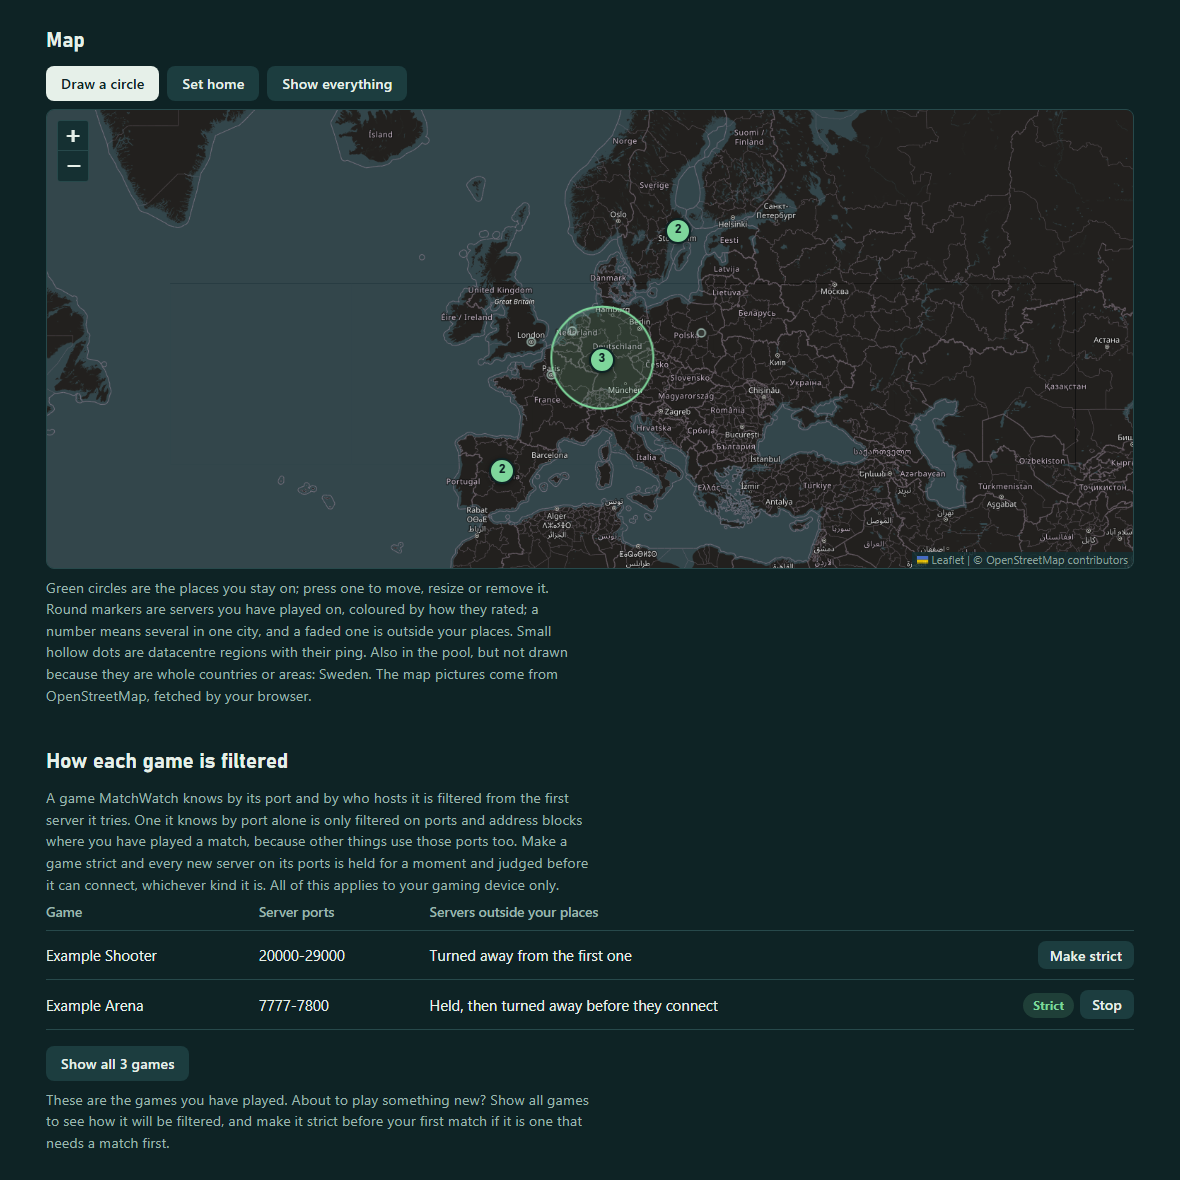
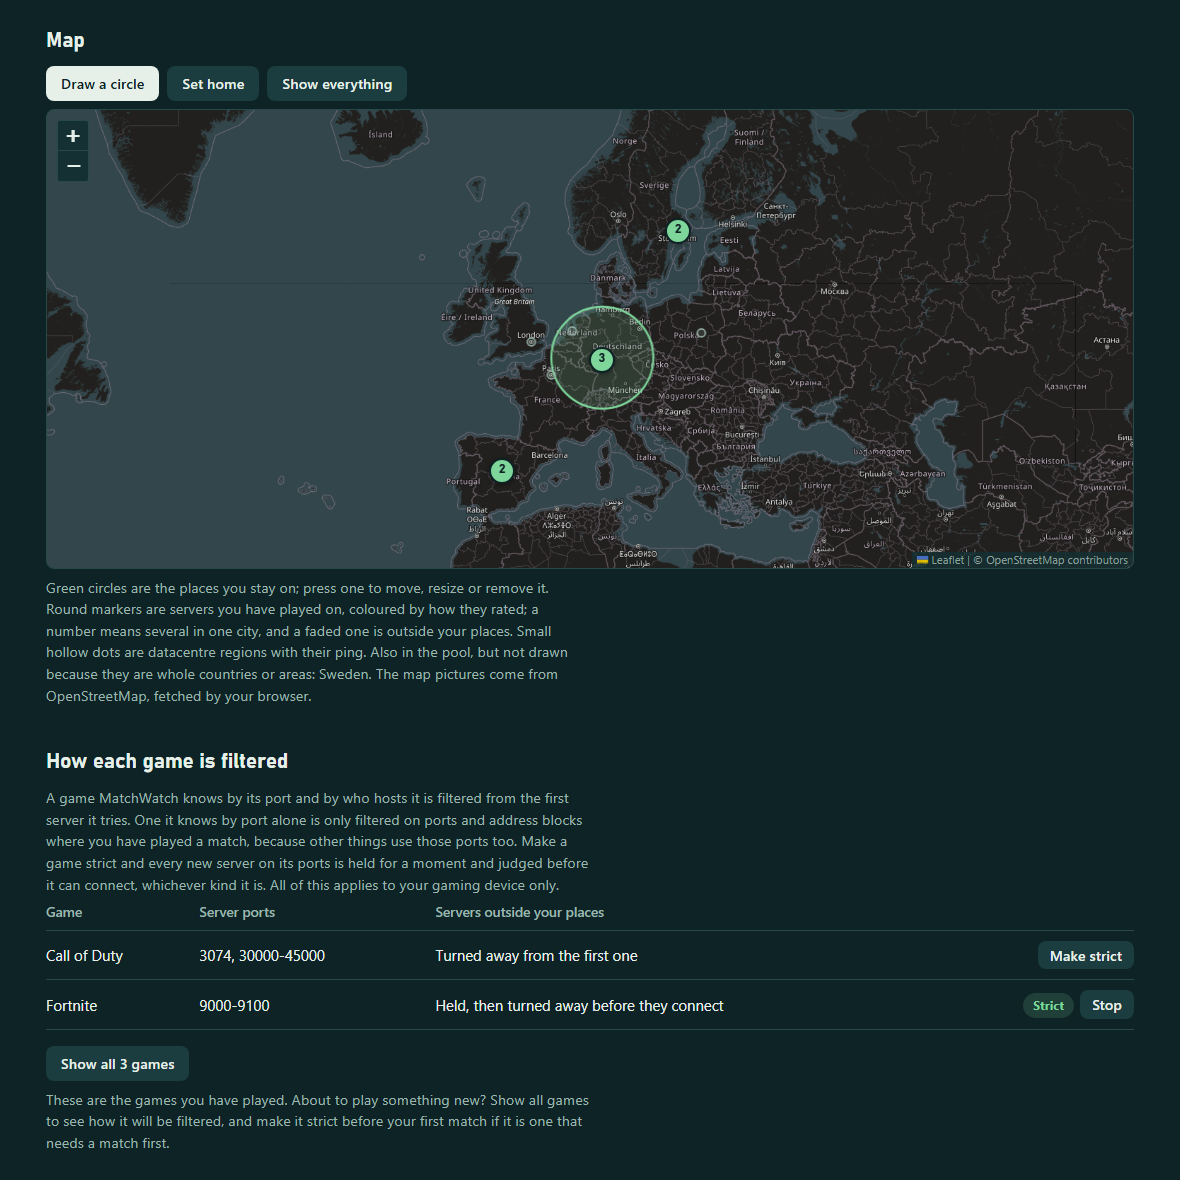
0.28.2: a match played outside your places says so, and why

Changed region(s): [[0.3661, 0.7627, 0.6102, 0.8542], [0.1831, 0.7627, 0.3051, 0.8542], [0.0305, 0.7932, 0.122, 0.8542]]

diff --git a/luci-app-matchwatch/htdocs/luci-static/resources/matchwatch/dashboard.js b/luci-app-matchwatch/htdocs/luci-static/resources/matchwatch/dashboard.js
@@ -26,7 +26,7 @@ var page = "", pageArg = "", armed = 0, view = shadow.getElementById("view");
 // another, MatchWatch has been updated under this page: the browser's stored copies of the dashboard
 // files are fetched afresh, which replaces them, and the page reloads itself. Without this an updated
 // router kept showing the old dashboard until the browser happened to let go of it.
-var BUILT = "0.28.1", reloading = false;
+var BUILT = "0.28.2", reloading = false;
 function freshReload() {
 	var urls = {}, go = function () { location.reload(); };
 	try { performance.getEntriesByType("resource").forEach(function (e) { if (/\/matchwatch\/[^?]*\.(js|css)(\?|$)/.test(e.name)) urls[e.name] = 1; }); } catch (e) {}
@@ -670,6 +670,14 @@ function pageMatch(id) {
 			h("div", null, h("h1", where), h("p", { cls: "sub", text: (sum && sum.game ? sum.game + ". " : "") + (m.org && m.org !== "-" ? m.org + ". " : "") + when(m.start) + ". " + mins(m.dur) + " played, " + mins(m.analysed) + " analysed. Server " + m.ip + ":" + m.port + "." })),
 			h("div", { cls: "score" }, h("b", { cls: sc }, String(m.overall), h("small", "/100")), h("span", { cls: sc, text: grade(m.overall) }))));
 		view.appendChild(h("p", { cls: "lede", text: m.verdict }));
+		if (m.outside) {
+			// this match was played on a server outside the places being stayed on: say so, and why it was not turned away
+			var og = m.game || "this game", why = m.outside === "allowed" ? "You added this server to the pool yourself, so it is always let through."
+				: m.outside === "port" ? og + " is known by its port alone, and no match had been played on this port or address block before, so MatchWatch could not be sure it was the game. Its address block is turned away from now on. Make " + og + " strict, on the Servers page, to stop the first one too."
+				: m.outside === "host" ? "It connected in the moment before it could be looked up, or your places changed while you were playing. Its address block is turned away from now on. Make " + og + " strict, on the Servers page, to hold new servers until they have been placed."
+				: "The game on this port has no name yet, and MatchWatch never turns an unnamed game away. Name it under Tools, Games.";
+			view.appendChild(h("div", { cls: "banner far" }, h("p", null, h("b", "Played outside your places. "), "This server is in " + (place(m) || "a place") + ", outside the places you stay on. " + why)));
+		}
 		view.appendChild(chain(m));
 		if (full && m.tl_d && m.tl_d.length) {
 			var cv = h("canvas", { role: "img", "aria-label": "Ping and update timing across the whole match" });

diff --git a/test/mockshots.py b/test/mockshots.py
@@ -53,7 +53,7 @@ def build(site):
         s = {"server": 100, "route": 100, "line": 100, "pc": 100}
         if code in s: s[code] = max(2, overall - 20)
         p = round(ping + random.uniform(-0.4, 0.4), 1)
-        m = {"game": "Example Arena" if cc == "SE" else "Example Shooter", "start": start, "dur": dur, "analysed": dur - 6, "device": "192.168.1.50", "ip": ip, "port": 30120, "cc": cc, "city": city, "org": org, "asn": "AS64500",
+        m = {"game": "Fortnite" if cc == "SE" else "Call of Duty", "start": start, "dur": dur, "analysed": dur - 6, "device": "192.168.1.50", "ip": ip, "port": 30120, "cc": cc, "city": city, "org": org, "asn": "AS64500",
              "tick": 20.1, "jit": 2.68 if code == "server" else round(random.uniform(0.2, 0.6), 2), "late": 2.78 if code == "server" else 0.03, "lost": 2.4 if code == "server" else round(random.uniform(0, 0.1), 2),
              "clump": 3.1 if code == "route" else 0.0, "freeze": 3 if code == "server" else 0, "rough": 51.0 if code == "server" else (18.0 if bad else 0.0), "uprate": 95.2, "upjit": 0.2,
              "hitch": 4 if code == "pc" else 0, "farkind": "server", "ping": p, "pingjit": 3.9 if code == "route" else 0.3, "pingloss": 1.5 if code == "route" else 0.0, "nearping": 3.7, "nearjit": 0.3, "nearloss": 0,
@@ -75,6 +75,7 @@ def build(site):
             for x in hs[3:]: x["jit"], x["loss"] = round(random.uniform(5.5, 8.0), 2), random.choice([6, 7, 9])
             det["hopnote"] = "Trouble on the way starts at stop %d (%s): jitter %.1f ms, %d%% of pings lost, and it is still there at every stop after it. The 3 stops before it were steady." % (hs[3]["n"], hs[3]["ip"], hs[3]["jit"], hs[3]["loss"])
         det["hopstats"] = hs
+        if cc == "ES": det["outside"] = "host"   # Madrid is outside the invented pool
         det["qm"] = {"scheme": "diffserv3", "up": {"pkts": dur * 95, "drops": 0, "marks": 0, "peak": 0.3, "rpkts": dur * 410, "rdrops": 37 if code == "line" else 0, "rmarks": 212 if code == "line" else 0, "rpeak": 18.4 if code == "line" else 1.1},
                      "down": {"pkts": dur * 20, "drops": 0, "marks": 0, "peak": 0.4, "rpkts": dur * 900, "rdrops": 0, "rmarks": 0, "rpeak": 2.2}}
         json.dump(det, open(f"{data}/matches/{start}.json", "w"))
@@ -99,17 +100,17 @@ def build(site):
     blocks = [{"ip": DCS["mad"][5][0].rsplit(".", 1)[0] + ".0/24", "days": None, "reason": "stay"}, {"ip": "203.0.113.77", "days": 12, "reason": "manual"}]
     for s in servers: s["blocked"] = s["ip"] == "203.0.113.77"; s["in"] = s["cc"] in ("DE", "SE"); s["lat"], s["lon"] = {"DE": (50.11, 8.68), "SE": (59.33, 18.07), "ES": (40.42, -3.70)}[s["cc"]]
     out = {"history": hist, "servers": servers, "datacentres": dlist, "regions": rj, "blocklist": blocks,
-           "info": {"version": "0.28.1", "device": "192.168.1.50", "stay": "Germany + Sweden", "autoblock": False, "notify": True, "pc_score": True, "geo": True, "block_days": 14, "stays": ["Near Frankfurt 450 km", "Sweden"], "web": False, "qosmate": True, "away": 412, "allowed": ["192.0.2.150"], "pool": [{"n": 1, "name": "Near Frankfurt 450 km", "lat": 50.11, "lon": 8.68, "km": 450, "cc": ""}, {"n": 2, "name": "Sweden", "lat": None, "lon": None, "km": 0, "cc": "SE"}]}}
+           "info": {"version": "0.28.2", "device": "192.168.1.50", "stay": "Germany + Sweden", "autoblock": False, "notify": True, "pc_score": True, "geo": True, "block_days": 14, "stays": ["Near Frankfurt 450 km", "Sweden"], "web": False, "qosmate": True, "away": 412, "allowed": ["192.0.2.150"], "pool": [{"n": 1, "name": "Near Frankfurt 450 km", "lat": 50.11, "lon": 8.68, "km": 450, "cc": ""}, {"n": 2, "name": "Sweden", "lat": None, "lon": None, "km": 0, "cc": "SE"}]}}
     out["favourites"] = [servers[-1]["ip"], servers[-2]["ip"], servers[-4]["ip"]]
-    out["mygames"] = [{"name": "Example Arena", "ports": "7777-7800", "kind": "", "hosts": ""}, {"name": "Example Shooter", "ports": "20000-29000", "kind": "", "hosts": "examplehost,as64500"}, {"name": "Not a game", "ports": "19306", "kind": "voice", "hosts": ""}]
+    out["mygames"] = [{"name": "Fortnite", "ports": "9000-9100", "kind": "", "hosts": ""}, {"name": "Call of Duty", "ports": "3074,30000-45000", "kind": "", "hosts": "vultr,as20473"}, {"name": "Not a game", "ports": "19306", "kind": "voice", "hosts": ""}]
     out["gameplaces"] = [
-        {"game": "Example Shooter", "city": "Frankfurt", "cc": "DE", "org": "Example Hosting Frankfurt", "networks": 3, "nets": ["203.0.113.0/24"], "matches": 7, "rating": 75, "mine": True, "in": True},
-        {"game": "Example Shooter", "city": "Madrid", "cc": "ES", "org": "Example Hosting Madrid", "networks": 2, "nets": ["192.0.2.0/24"], "matches": 2, "rating": 100, "mine": True, "in": False},
-        {"game": "Example Arena", "city": "Stockholm", "cc": "SE", "org": "Example Hosting Stockholm", "networks": 2, "nets": ["198.51.100.0/24"], "matches": 3, "rating": 100, "mine": True, "in": True},
-        {"game": "Example Shooter", "city": "Paris", "cc": "FR", "org": "Example Hosting Paris", "networks": 1, "nets": ["198.51.100.0/24"], "matches": 0, "rating": None, "mine": True, "in": False},
-        {"game": "Example Shooter", "city": "Tokyo", "cc": "JP", "org": "Example Hosting Tokyo", "networks": 6, "nets": ["203.0.113.0/24"], "matches": 41, "rating": 88, "mine": False, "in": False},
-        {"game": "Example Arena", "city": "Sydney", "cc": "AU", "org": "Example Hosting Sydney", "networks": 4, "nets": ["192.0.2.0/24"], "matches": 17, "rating": 92, "mine": False, "in": False}]
-    out["hold"] = [{"name": "Example Shooter", "on": False, "ok": True, "ports": "20000-29000", "host": True}, {"name": "Example Arena", "on": True, "ok": True, "ports": "7777-7800", "host": False}, {"name": "Example Blocks", "on": False, "ok": False, "ports": "49152-65535", "host": True}]
+        {"game": "Call of Duty", "city": "Frankfurt", "cc": "DE", "org": "Example Hosting Frankfurt", "networks": 3, "nets": ["203.0.113.0/24"], "matches": 7, "rating": 75, "mine": True, "in": True},
+        {"game": "Call of Duty", "city": "Madrid", "cc": "ES", "org": "Example Hosting Madrid", "networks": 2, "nets": ["192.0.2.0/24"], "matches": 2, "rating": 100, "mine": True, "in": False},
+        {"game": "Fortnite", "city": "Stockholm", "cc": "SE", "org": "Example Hosting Stockholm", "networks": 2, "nets": ["198.51.100.0/24"], "matches": 3, "rating": 100, "mine": True, "in": True},
+        {"game": "Call of Duty", "city": "Paris", "cc": "FR", "org": "Example Hosting Paris", "networks": 1, "nets": ["198.51.100.0/24"], "matches": 0, "rating": None, "mine": True, "in": False},
+        {"game": "Call of Duty", "city": "Tokyo", "cc": "JP", "org": "Example Hosting Tokyo", "networks": 6, "nets": ["203.0.113.0/24"], "matches": 41, "rating": 88, "mine": False, "in": False},
+        {"game": "Fortnite", "city": "Sydney", "cc": "AU", "org": "Example Hosting Sydney", "networks": 4, "nets": ["192.0.2.0/24"], "matches": 17, "rating": 92, "mine": False, "in": False}]
+    out["hold"] = [{"name": "Call of Duty", "on": False, "ok": True, "ports": "3074 30000-45000", "host": True}, {"name": "Fortnite", "on": True, "ok": True, "ports": "9000-9100", "host": False}, {"name": "Roblox", "on": False, "ok": False, "ports": "49152-65535", "host": True}]
     out["coverage"] = {"hosts": "Vultr (Call of Duty)", "known": 441, "refusing": True, "refused": 412, "places": [{"name": "Germany", "ranges": 26}, {"name": "Sweden", "ranges": 2}], "suggest": []}
     out["shared"] = {"undo": True, "have": {"games": 3, "regions": 0, "places": 2, "ratings": 6},
                      "ratings": [{"p": "203.0.113.0/24", "n": 14, "avg": 38, "city": "Madrid", "cc": "ES", "org": "Example Hosting Madrid", "blocked": True},
@@ -140,9 +141,9 @@ matchwatch-share 1
 
 [games]
 # name|server ports|kind (empty = a game, voice = voice chat)|words in the name of the company hosting the servers
-Example Arena|7777-7800||
-Example Shooter|20000-29000||examplehost,as64500
-Example Racing|8211||
+Fortnite|9000-9100||
+Call of Duty|3074,30000-45000||vultr,as20473
+Palworld|8211||
 
 [places]
 # name|latitude|longitude|reach in km|country codes
@@ -159,11 +160,11 @@ Stockholm, SE|59.33|18.07|150|-
 
 [favourites]
 # server|game|city|country code|host|rating out of 100|matches|latitude|longitude
-198.51.100.12|Example Arena|Stockholm|SE|Example Hosting Stockholm|100|2|59.33|18.07|1
-198.51.100.90|Example Arena|Stockholm|SE|Example Hosting Stockholm|100|1|59.33|18.07|1
-192.0.2.150|Example Shooter|Madrid|ES|Example Hosting Madrid|100|1|40.42|-3.70|1
-203.0.113.21|Example Shooter|Frankfurt|DE|Example Hosting Frankfurt|100|3|50.11|8.68|0
-203.0.113.77|Example Shooter|Frankfurt|DE|Example Hosting Frankfurt|12|2|50.11|8.68|0
+198.51.100.12|Fortnite|Stockholm|SE|Example Hosting Stockholm|100|2|59.33|18.07|1
+198.51.100.90|Fortnite|Stockholm|SE|Example Hosting Stockholm|100|1|59.33|18.07|1
+192.0.2.150|Call of Duty|Madrid|ES|Example Hosting Madrid|100|1|40.42|-3.70|1
+203.0.113.21|Call of Duty|Frankfurt|DE|Example Hosting Frankfurt|100|3|50.11|8.68|0
+203.0.113.77|Call of Duty|Frankfurt|DE|Example Hosting Frankfurt|12|2|50.11|8.68|0
 
 [settings]
 # the thresholds this copy of MatchWatch runs with
@@ -175,8 +176,8 @@ autoblock_matches=2
 lobby_margin_ms=4
 stay_km=150
 block_days=14`;
-		if (p.action === "sharecheck") out = `games: 2 game label(s): Example Game, Another Game. They go below the names you have given yourself, which always win.
-favourites: 3 favourite server(s) for Example Arena (2), Example Shooter (1). They join your favourites under those games: never blocked automatically, and the lobby alert tells you when you land on one.
+		if (p.action === "sharecheck") out = `games: 2 game label(s): Fortnite, Palworld. They go below the names you have given yourself, which always win.
+favourites: 3 favourite server(s) for Fortnite (2), Call of Duty (1). They join your favourites under those games: never blocked automatically, and the lobby alert tells you when you land on one.
 favplaces: Stay near those servers: adds Stockholm, SE, Madrid, ES to the places you stay on and turns staying on, so game servers elsewhere are blocked.
 places: 1 place(s) to stay on: UK and Ireland. Importing these turns staying on, so game servers elsewhere are blocked.
 ratings: 3 server rating(s) from someone else. They are shown to you and mentioned by the lobby alert, and never block anything by themselves.
@@ -185,12 +186,14 @@ ratings: 3 server rating(s) from someone else. They are shown to you and mention
 		if (p.action === "shareimport") out = `Added 2 game label(s). Ones for ports you had already named were left out.
 Took in 3 server rating(s). They are listed on the Tools page.`;
 		if (p.action === "linetest" || p.action === "trace") out = "1";
-		if (p.action === "updatecheck") out = "Version 0.24.0 is available. You have 0.28.1.";
+		if (p.action === "updatecheck") out = "Version 0.24.0 is available. You have 0.28.2.";
 		return Promise.resolve({ ok: true, out: out });
 	} });
 // for the Tools screenshots: press what a visitor would, so each picture shows a result
 setTimeout(function () { Array.prototype.forEach.call(document.getElementById("mw").shadowRoot.querySelectorAll("button"), function (x) { if (["Choose what to share", "Test my line", "Trace the route now", "Check for an update"].indexOf(x.textContent) >= 0) x.click(); }); }, 3000);
 </script></body></html>""" % (RES, RES))
+    global OUTSIDE
+    OUTSIDE = [m for m in hist if m["cc"] == "ES"][0]["start"]
     return [m for m in hist if m["code"] == "server"][0]["start"]
 
 
@@ -223,6 +226,9 @@ if __name__ == "__main__":
     os.makedirs(ROOT + "/docs", exist_ok=True)
     for route, name, h in (("#/", "live", 1400), (f"#/match/{bad}", "match-report", 2600), ("#/matches", "matches", 2600), ("#/servers", "servers-pool", 5200), ("#/tools", "tools", 2600), ("#/tools/share", "share", 4200), ("#/tools/data", "update", 2200)):
         shoot(browser, route, f"{ROOT}/docs/{name}.png", h)
+    # a match that was played outside the pool: just the top of its report, where that is said
+    shoot(browser, f"#/match/{OUTSIDE}", f"{ROOT}/docs/outside.png", 2600)
+    Image.open(f"{ROOT}/docs/outside.png").crop((0, 0, 1180, 420)).save(f"{ROOT}/docs/outside.png", optimize=True)
     # the map and the filter table on their own, large enough to read in the README (they sit a long way down the Servers page)
     Image.open(f"{ROOT}/docs/servers-pool.png").crop((0, 570, 1180, 1750)).save(f"{ROOT}/docs/map.png", optimize=True)
     assert os.path.getsize(f"{ROOT}/docs/match-report.png") > 60000, "the match report picture is nearly empty: the match was not found"

diff --git a/CLAUDE.md b/CLAUDE.md
@@ -1,6 +1,6 @@
 # matchwatch: notes for whoever works on this next
 
-matchwatch runs on an OpenWrt router and judges each online match: the game server, the route to it, the player's own line and their PC. It works from packet timing only and never alters game traffic. Version 0.28.1.
+matchwatch runs on an OpenWrt router and judges each online match: the game server, the route to it, the player's own line and their PC. It works from packet timing only and never alters game traffic. Version 0.28.2.
 
 ## Layout
 
@@ -76,7 +76,7 @@ Hop-by-hop blame (0.27.0): `hop_loop` (started by `_probe_start` once the trace 
 - Voice chat must never be cut off. Stay mode, the lobby alert and auto-block act only on servers labelled as a game in `games.list` or `games.local` (`kindof`/`isgame` in the engine, `which_label`/`is_game_port` in reports). Voice streams (`kind` = `voice`) are not tracked at all: no session, no probes, no alerts. Unlabelled ports are tracked and rated but never blocked. `games.local` is read first, so naming a port or range makes it a game. The engine re-reads both files every 20 ticks.
 - Labels are `name|ports|kind|hosts`, first match wins. `hosts` are words looked for in the server's isp, org and AS name; a label with hosts only matches once the lookup is in `geo.cache` (the engine asks with `matchwatch _geo <ip>`), and until then the stream falls through to later labels. This exists because ports overlap badly: Roblox and Discord voice share 50000-65535, Valorant sits inside Rocket League's range, Apex inside Call of Duty's. Reports only have org and the AS number, so give host-checked labels the AS number too (`roblox,as22697`). Put narrow and host-checked lines above wide ones. Never add a wide range without a host check: it turns every unknown stream in that range into a "game" that stay mode may block.
 - Publishers' port lists mostly do not say whether a port is the server's or the player's, and many are missing. `games.list` marks lines without a publisher source as unconfirmed. Do not add a game from memory; find a source.
-- The lobby alert needs a game-labelled port and one of two more things: the matching label is host-checked and the server's host matches (`hostgame`, since 0.28.0, at the owner's request so filtering works from a game's first server as Geomate's does), or the port or /24 carried an earlier match (`KPORT`, `K24`). Never drop the second test for labels known by port alone: game port ranges are wide (30000-45000), and calls and peer-to-peer traffic use ports inside them, so with stay mode on that would block non-game servers. A patch once dropped it for everything. While a host lookup is pending the check is put off (`hostpending`, up to 400 packets) rather than decided on a later port-only label. A port-only server left alone this way is passed to `matchwatch _unseen` (0.28.1), which blocks nothing: if the server is outside the pool it writes a `lobby.json` with `strictname`, so the Live page says it was let through and offers to make that game strict.
+- The lobby alert needs a game-labelled port and one of two more things: the matching label is host-checked and the server's host matches (`hostgame`, since 0.28.0, at the owner's request so filtering works from a game's first server as Geomate's does), or the port or /24 carried an earlier match (`KPORT`, `K24`). Never drop the second test for labels known by port alone: game port ranges are wide (30000-45000), and calls and peer-to-peer traffic use ports inside them, so with stay mode on that would block non-game servers. A patch once dropped it for everything. While a host lookup is pending the check is put off (`hostpending`, up to 400 packets) rather than decided on a later port-only label. A port-only server left alone this way is passed to `matchwatch _unseen` (0.28.1), which blocks nothing: if the server is outside the pool it writes a `lobby.json` with `strictname`, so the Live page says it was let through and offers to make that game strict. A match played on a server outside the pool carries `outside` in its detail (`allowed`, `port`, `host` or `unnamed`, worked out in `_probe_stop`), and the report opens with why it was not turned away (0.28.2). The pictures use real game titles with the ports from `games.list`, at the owner's request; hosts and addresses stay invented.
 - Share files come from strangers. Import must never be able to block a server or widen what counts as a game without a check: ratings from others are display only (`ratings.shared` is never read by auto-block or stay mode), a game label over 2000 ports wide needs hosts, host words need three characters, settings are a fixed list of numeric keys with ranges (never `autoblock`, `ntfy_url`, `device_ip`, `only_filter`), and region hosts must be names, not addresses. Export must never include the device, LAN or ISP addresses, or match times.
 - `matchwatch game name <port or lo-hi> <name> [hosts] [voice]` and `game remove` are the only writers of hand-made labels (actions `gamename`, where `region` carries the host words and `days` = 1 means not a game, and `gamedel`). They refuse a range over 2000 ports with no host words, the same rule as imports.
 - A name given by hand goes at the top of `games.local` so it beats an imported label covering the same port; imported labels are appended.

diff --git a/README.md b/README.md
@@ -1,6 +1,6 @@
 # MatchWatch
 
-**Judges every online match from your OpenWrt router — v0.28.1 (pre-release)**
+**Judges every online match from your OpenWrt router — v0.28.2 (pre-release)**
 
 > **OpenWrt only.** MatchWatch runs on a router with [OpenWrt](https://openwrt.org/) firmware and appears inside LuCI, OpenWrt's web interface. It does not run on Windows, macOS, a games console, or a router with its maker's stock firmware. Nothing is installed on your PC or console.
 
@@ -66,6 +66,10 @@ It works from packet timing only. Game traffic is never decoded, changed, delaye
 | --- |
 | ![Map](docs/map.png) |
 
+| A match that got through, and why |
+| --- |
+| ![Played outside your places](docs/outside.png) |
+
 | Live | Match report |
 | --- | --- |
 | ![Live](docs/live.png) | ![Match report](docs/match-report.png) |
@@ -82,7 +86,7 @@ It works from packet timing only. Game traffic is never decoded, changed, delaye
 | --- |
 | ![Update](docs/update.png) |
 
-The screenshots are made from invented data (`test/mockshots.py`). The addresses, games and matches in them are not real.
+The screenshots are made from invented data (`test/mockshots.py`). The game titles are real ones MatchWatch recognises; the addresses, hosts and matches are invented.
 
 ## Install, update, remove
 
@@ -327,7 +331,7 @@ How soon staying on places acts on a game depends on how sure MatchWatch is that
 | Any named game you made strict | Before it can connect, every time | Press Make strict |
 | Not named ("Game on port N") | Never | Name it first |
 
-The table on the Servers page lists the games you have played; **Show all games** lists every game MatchWatch recognises, so you can check a new one, and make it strict, before your first match. And when a server outside your places is let through because its game is known by port alone, the Live page says so, with a button to make that game strict.
+The table on the Servers page lists the games you have played; **Show all games** lists every game MatchWatch recognises, so you can check a new one, and make it strict, before your first match. And when a server outside your places is let through because its game is known by port alone, the Live page says so, with a button to make that game strict. If you then play the match there, its report opens with "Played outside your places" and the reason it was not turned away.
 
 The middle row exists because other traffic uses the same ports. A port alone is not proof of a game, so MatchWatch waits for a match there before refusing anything, unless you tell it to be strict.
 
